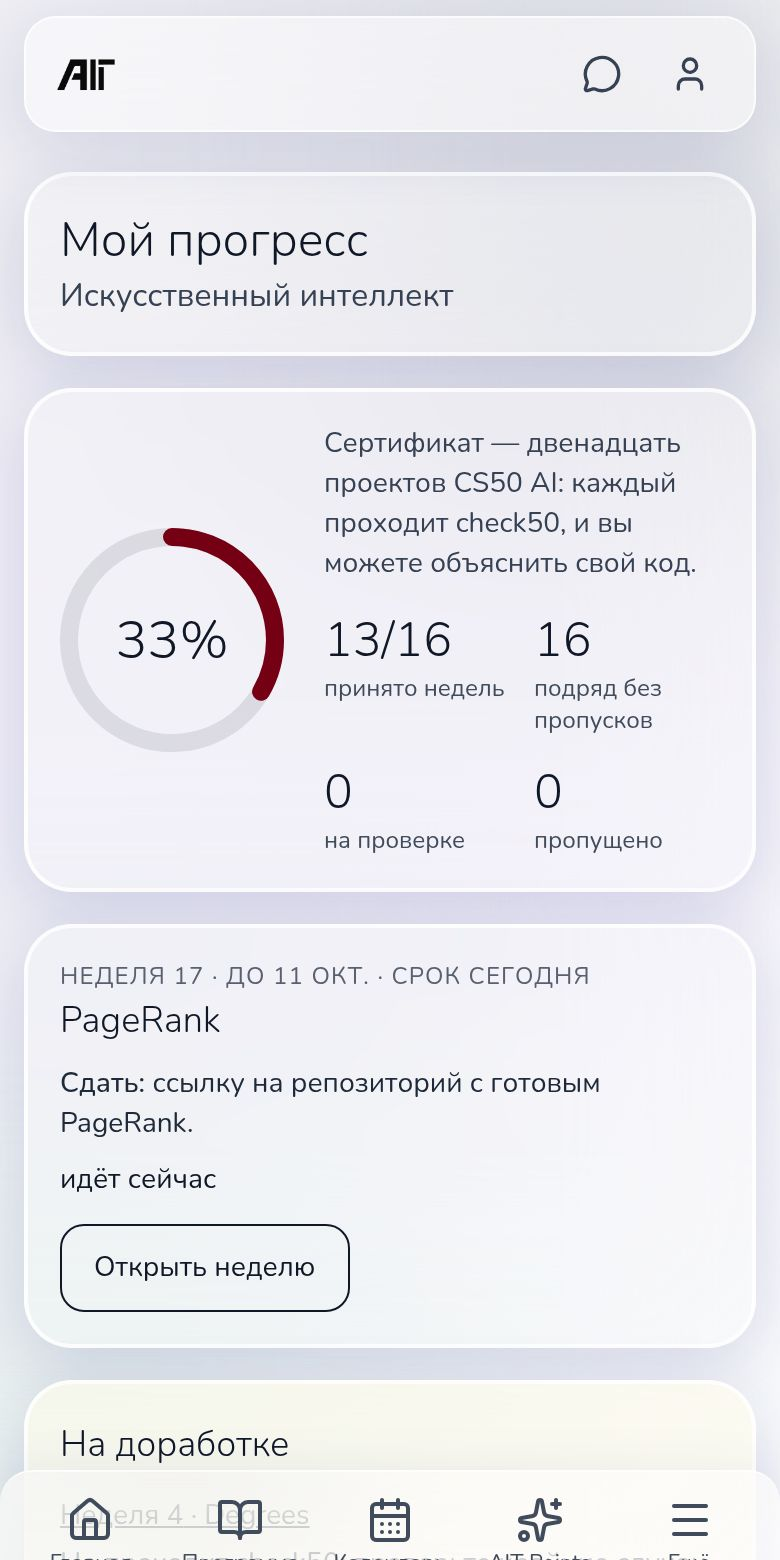
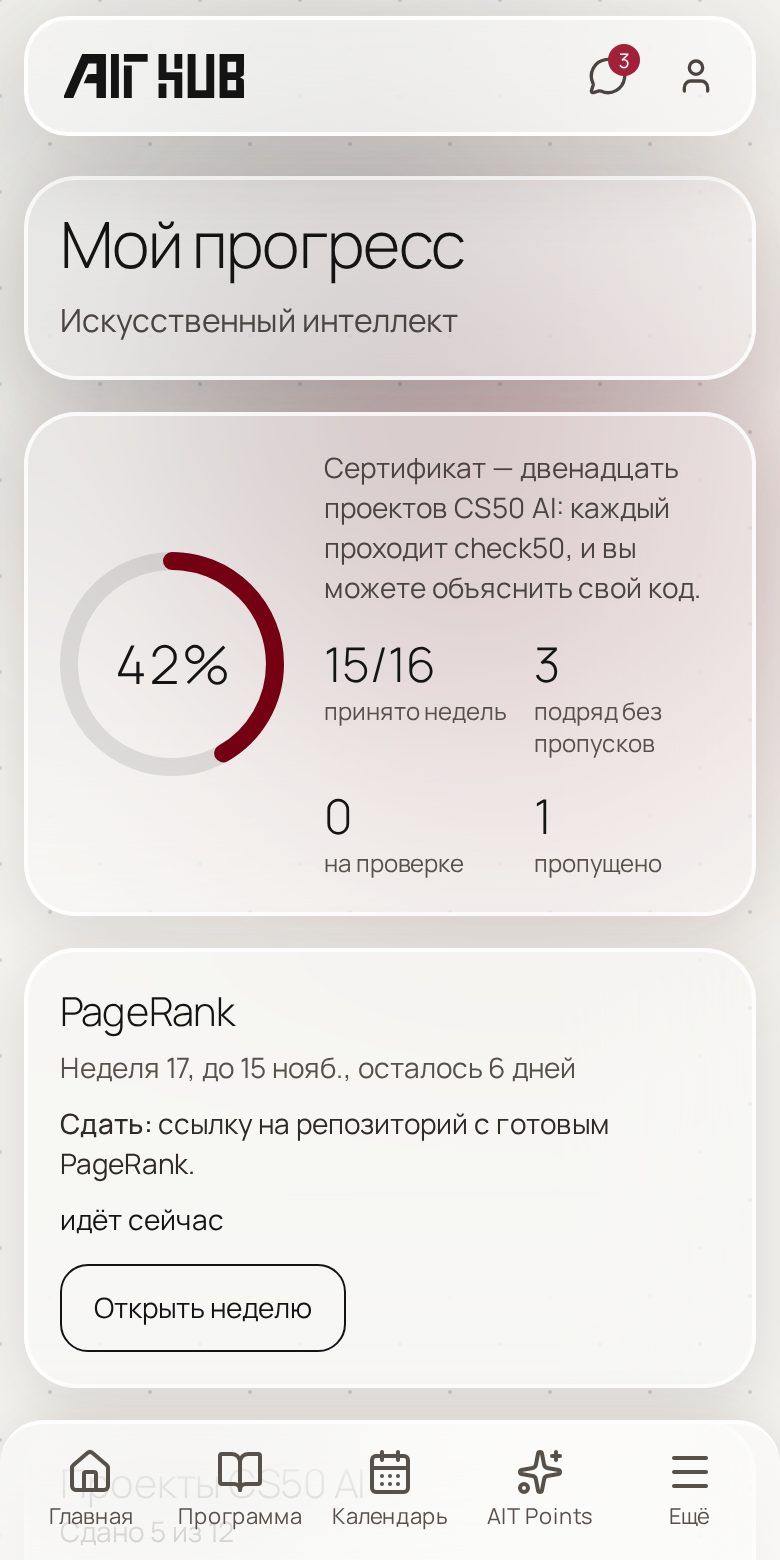
site: a section of its own about the selection, the Hub as it looks now, one note less
- The home page gets the selection as a section right after the hero: each department with its
  roles, every role opening the form with it, the dates and the way to /team; «Отбор» in the bar.
  The hero's card points to it.
- The screenshots of the «AIT Hub» section were taken before the Hub took the site's look: new
  ones, on the demo club's data, sharp on Retina.
- The form no longer tells applicants what not to write.

diff --git a/site/index.html b/site/index.html
@@ -36,6 +36,7 @@
       <div class="bar-in glass">
         <a href="#top" aria-label="AIT Club — в начало"><img src="/img/ait-black.png" alt="AIT Club" width="380" height="207" /></a>
         <nav aria-label="Разделы">
+          <a href="#team">Отбор</a>
           <a href="#tracks">Направления</a>
           <a href="#year">Как устроен год</a>
           <a href="#news">Новости</a>
@@ -65,7 +66,7 @@
               <p>Ищем организаторов и менторов из сети НИШ. Заявки до 16 ноября, онлайн-собеседования 17–23 ноября.</p>
               <div class="cta">
                 <a class="btn btn-accent" href="/apply">Подать заявку</a>
-                <a class="btn btn-ghost" href="/team">Роли и отбор</a>
+                <a class="btn btn-ghost" href="#team">Подробнее</a>
               </div>
             </section>
           </div>
@@ -79,6 +80,26 @@
           <div class="dots" id="dots"></div>
           <p class="hint">Наведите на фигуру, чтобы увидеть, из чего она сделана</p>
         </aside>
+      </section>
+
+      <!-- The team selection: departments and roles from src/lib/recruitment.ts (vite.site.config.ts) -->
+      <section class="sec" id="team">
+        <div class="wrap">
+          <div class="sec-head">
+            <h2 class="reveal">Отбор в команду клуба</h2>
+            <p class="reveal sec-lead">Клуб собирает межшкольную команду из сети НИШ: менторов направлений и организаторов. Работа онлайн, добровольная и без оплаты. Заявки до 16 ноября, онлайн-собеседования 17–23 ноября.</p>
+          </div>
+          <div class="team-depts">
+            <!-- team-roles -->
+          </div>
+          <div class="reveal team-cta">
+            <div class="cta">
+              <a class="btn btn-accent" href="/apply">Подать заявку</a>
+              <a class="btn btn-ghost" href="/team">Роли и отбор подробно</a>
+            </div>
+            <ul class="facts" aria-label="Даты отбора"><li>заявки 9–16 ноября</li><li>собеседования 17–23 ноября</li><li>затем подготовка AIT Week</li></ul>
+          </div>
+        </div>
       </section>
 
       <!-- News: plates you pull out of a stack (club.js) -->

diff --git a/site/club.css b/site/club.css
@@ -114,6 +114,19 @@ body::before { content: ""; position: fixed; inset: 0 0 auto; height: env(safe-a
 .hero-recruit p { margin: 0; font-size: 14.5px; line-height: 1.55; color: var(--body); }
 .hero-recruit .cta { margin-top: 6px; }
 .hero-recruit .btn { min-height: 44px; }
+
+/* The team selection, the section right after the hero: departments as columns of roles. */
+.team-depts { display: grid; grid-template-columns: repeat(4, minmax(0, 1fr)); gap: 24px 28px; margin-top: 40px; }
+.team-dept { padding-top: 18px; border-top: 1px solid var(--hair); display: flex; flex-direction: column; gap: 6px; }
+.team-dept h3 { font-size: 19px; font-weight: 600; letter-spacing: -0.01em; }
+.team-dept p { margin: 0; color: var(--body); font-size: 14.5px; line-height: 1.5; }
+.team-dept ul { margin: 6px 0 0; padding: 0; list-style: none; }
+.team-dept li { border-top: 1px solid var(--hair); }
+.team-dept a { display: block; padding: 9px 0; color: var(--ink); text-decoration: none; font-size: 15px; transition: color .2s; }
+.team-dept a:hover { color: var(--accent-text); }
+.team-cta { margin-top: 32px; display: flex; flex-wrap: wrap; align-items: center; gap: 16px 28px; }
+@media (max-width: 960px) { .team-depts { grid-template-columns: repeat(2, minmax(0, 1fr)); } }
+@media (max-width: 560px) { .team-depts { grid-template-columns: 1fr; } }
 .stage-ctl { display: flex; align-items: center; gap: 10px; margin-top: 16px; }
 .round { width: 44px; height: 44px; border-radius: 50%; border: 1px solid var(--hair); background: var(--card); color: var(--ink); cursor: pointer; display: grid; place-items: center; font: 500 18px/1 var(--font); }
 .round:hover { border-color: var(--ink); }

diff --git a/vite.site.config.ts b/vite.site.config.ts
@@ -38,6 +38,16 @@ function positions(): string {
             </article>`).join('')
 }
 
+/** The selection on the home page: each department's roles, each opening the form with it. */
+function teamRoles(): string {
+  return DEPARTMENTS.map((d) => `
+            <div class="reveal team-dept">
+              <h3>${esc(d.title)}</h3>
+              <p>${esc(d.summary)}</p>
+              <ul>${d.roles.map((r) => `<li><a href="/apply?role=${r.id}">${esc(r.title)}</a></li>`).join('')}</ul>
+            </div>`).join('')
+}
+
 // What the team form needs to work. Public values (they end up in the page), but a build without
 // them would publish a form that can't send anything: it is refused. The Turnstile key is the Hub's
 // (VITE_TURNSTILE_SITE_KEY) unless the site has a widget of its own.
@@ -69,6 +79,7 @@ function clubSite(mode: string): Plugin {
       const contact = env.VITE_TEAM_CONTACT?.trim() ?? ''
       return html
         .replace('<!-- positions -->', positions())
+        .replace('<!-- team-roles -->', teamRoles())
         .replaceAll('{{contact_href}}', esc(contactHref(contact) ?? '#faq'))
         .replaceAll('{{contact}}', esc(contact || 'контакт не указан (VITE_TEAM_CONTACT)'))
     },

diff --git a/site/team.css b/site/team.css
@@ -75,7 +75,6 @@
 .step-title:focus { outline: none; }
 .f-fields { display: flex; flex-direction: column; gap: 22px; }
 .f-lead { margin: 0; color: var(--body); font-size: 15.5px; line-height: 1.55; }
-.f-note { margin: 0; font-size: 13.5px; color: var(--muted); padding-left: 14px; border-left: 2px solid var(--hair); }
 .f-restored { margin: 0; font-size: 14px; color: var(--body); padding: 10px 14px; border-radius: 14px; background: rgb(255 255 255 / .55); border: 1px solid var(--glass-brd); }
 
 .field { margin: 0; padding: 0; border: 0; min-width: 0; display: flex; flex-direction: column; gap: 8px; }

diff --git a/site/team-form.ts b/site/team-form.ts
@@ -319,7 +319,6 @@ export function mountForm(root: HTMLElement, reduce: boolean): FormHandle {
         hint: 'По нему мы свяжемся с тобой.', placeholder: 'name@mail.kz', onInput: (v) => { form.email = v } }),
       textField({ id: 'telegram', label: 'Telegram', value: form.telegram, max: 40, prefix: '@', placeholder: 'username',
         onInput: (v) => { form.telegram = v } }),
-      h('p', { class: 'f-note' }, 'Номер телефона, адрес и данные документов не нужны: не пиши их и в ответах.'),
     ]
   }
 
